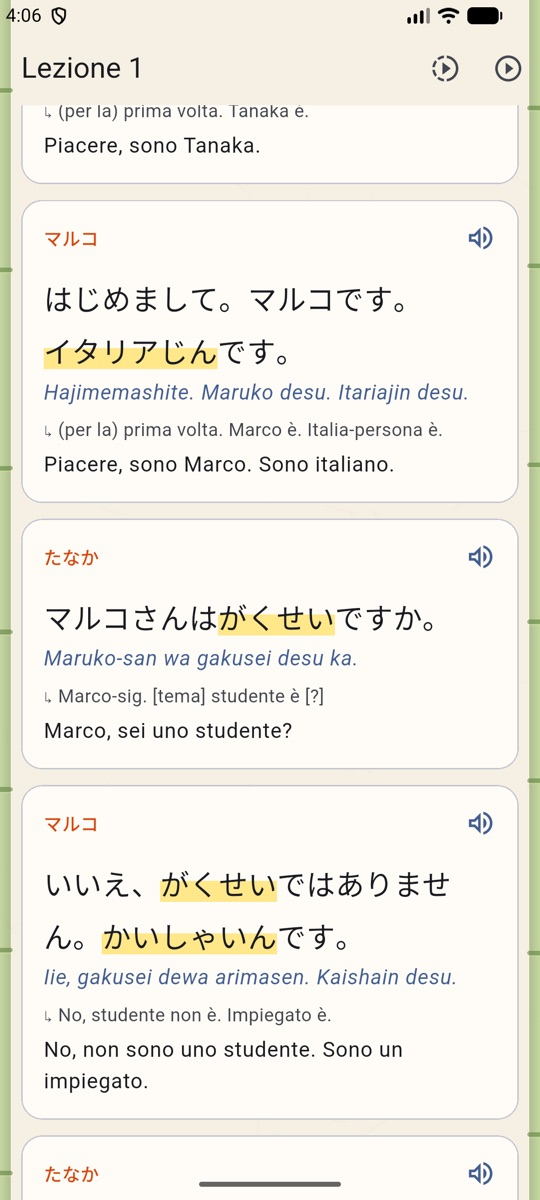
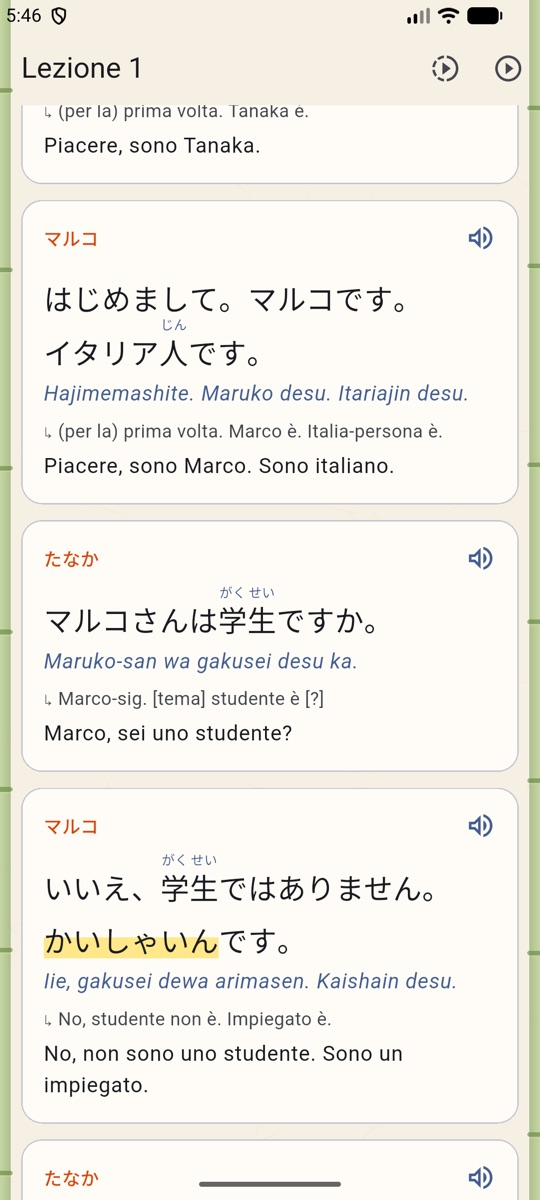
Level profile instead of 'My kanji': new lesson screenshots and text

diff --git a/README.md b/README.md
@@ -13,10 +13,10 @@
 </p>
 
 <p align="center">
-  <img src="media/screen2.jpg" width="200" alt="Lesson 1 with the 'My kanji' profile before studying any kanji: everything in hiragana, highlighted">
-  <img src="media/screen3.jpg" width="200" alt="The same lesson with the N5 profile: N5 kanji appear with furigana, 会社員 stays in highlighted hiragana">
+  <img src="media/screen2.jpg" width="200" alt="Lesson 1 at level N5: N5 kanji with furigana, 会社員 and 田中 in highlighted hiragana">
+  <img src="media/screen3.jpg" width="200" alt="The same lesson at level N4: 会社員 and 田中 now appear in kanji">
 </p>
-<p align="center"><sub>The same dialogue with no kanji studied and with the N5 profile. Words whose kanji you don't know yet get a soft yellow highlight, and tapping them shows the original.</sub></p>
+<p align="center"><sub>The same dialogue at level N5 and at level N4. Words whose kanji you don't know yet get a soft yellow highlight, and tapping them shows the original.</sub></p>
 
 <p align="center">
   <img src="media/screen1.jpg" width="160" alt="Home: the app name in a Japanese landscape, next lesson, kanji profile, conversation and grammar">
@@ -34,7 +34,7 @@
 
 ## ✨ Features
 
-- **A kanji profile instead of a "level"**: by default the app shows only the kanji you have studied in it ("My kanji"). You can also pick a JLPT level (N5, N4, N3) and see every kanji of that level. The check is done by code on every sentence, so a text never contains a kanji above your profile.
+- **Texts that follow your level**: you pick a JLPT level (N5, N4, N3) and every text shows only the kanji of that level, plus any kanji you have studied in the app. The check is done by code on every sentence, so a text never contains a kanji above your profile.
 - **40 N5 lessons covering the whole N5 vocabulary** (717 words, measured by a script against the JLPT lists): each dialogue line has furigana, rōmaji, a word-by-word literal translation and a natural Italian translation, and each can be hidden. Grammar notes come with examples, and every Japanese word in them carries its rōmaji. Polite forms come first (*dewa arimasen*), spoken and casual forms later; texts grow longer lesson after lesson, up to a diary written in plain form.
 - **Grammar guide, always at hand**: every grammar point of the course on one page, searchable in Italian, Japanese or rōmaji ("te kudasai", "passato", "から").
 - **Fill-in exercises**: at the end of each lesson, ten sentences with a missing word or particle to type in rōmaji, kana or kanji. Long vowels are forgiven (*tokyo* counts for *Tōkyō*), and the solution shows reading, rōmaji and audio.
